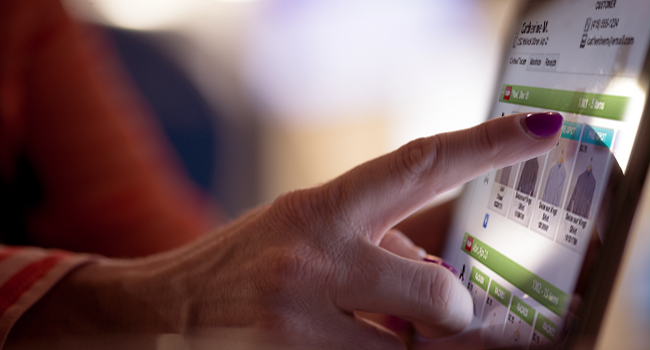
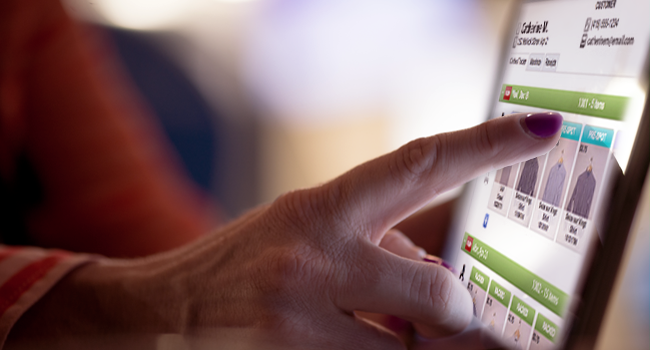
mostly cosmetic
Changed icons, and pics, added noWidow to some <p>

Changed region(s): [[0.6769, 0.0, 1.0, 1.0]]

diff --git a/index.html b/index.html
@@ -50,7 +50,7 @@
                     <span class="icon-bar"></span>
                     <span class="icon-bar"></span>
                 </button>
-                <a class="navbar-brand page-scroll" href="#page-top"><img src="" style=" display: inline; margin-right: 8px;">SMRT Systems</a>
+                <a class="navbar-brand page-scroll" href="#page-top"><img src="img/smrt_icon25.png" style=" display: inline; margin-right: 8px;">SMRT Systems</a>
             </div>
 
             <!-- Collect the nav links, forms, and other content for toggling -->
@@ -87,6 +87,7 @@
     </nav>
 
     <header>
+        <div id="fixed-header">
         <div class="header-content">
             <div class="header-content-inner">
                 <img id="header-logo"  src="img/smrt_logo_med.png" alt="smrt systems logo">
@@ -97,6 +98,7 @@
                 </p>
                 <a href="#" target="_BLANK" class="btn btn-primary btn-xl page-scroll">Get SMRT</a>
             </div>
+        </div>    
         </div>
     </header>
 
@@ -114,9 +116,37 @@
                 <div class="row">
                     <div class="col-lg-4 col-md-4 text-center">
                         <div class="service-box">
+                            <img class="features-image" src="img/ill/features_manage.png">
+                            <h3>SMRT Stations</h3>
+                            <p class="text-muted noWidows2"> Hodor hodor HODOR! Hodor hodor - hodor; hodor hodor; hodor hodor?!</p>
+                        </div>
+                    </div>
+
+                    <div class="col-lg-4 col-md-4 text-center">
+                        <div class="service-box">
+                            <img class="features-image" src="img/ill/features_pay1.png">
+                            <h3>SMRT Pay</h3>
+                            <p class="text-muted noWidows2"> Hodor hodor HODOR! Hodor hodor - hodor; hodor hodor; hodor hodor?!</p>
+                        </div>
+                    </div>
+
+                    <div class="col-lg-4 col-md-4 text-center">
+                        <div class="service-box">
+                            <img class="features-image" src="img/ill/features_delivery.png">
+                            <h3>SMRT Delivery</h3>
+                            <p class="text-muted noWidows2"> Hodor hodor HODOR! Hodor hodor - hodor; hodor hodor; hodor hodor?!</p>
+                        </div>
+                    </div>
+                </div>   
+                </div> 
+
+                <div class="container">
+                <div class="row">
+                    <div class="col-lg-4 col-md-4 text-center">
+                        <div class="service-box">
                             <i class="fa fa-4x icon-World_icons_heart wow bounceIn text-primary"></i>
                             <h3>SMRT Stations</h3>
-                            <p class="text-muted"> Hodor hodor HODOR! Hodor hodor - hodor; hodor hodor; hodor hodor?! Hodor, hodor. Hodor. Hodor, hodor - hodor hodor?! Hodor. Hodor hodor... Hodor hodor hodor hodor. </p>
+                            <p class="text-muted noWidows2"> Hodor hodor HODOR! Hodor hodor - hodor; hodor hodor; hodor hodor?!</p>
                         </div>
                     </div>
 
@@ -124,7 +154,7 @@
                         <div class="service-box">
                             <i class="fa fa-4x icon-Web_icons_van wow bounceIn text-primary" data-wow-delay=".1s"></i>
                             <h3>SMRT Pay</h3>
-                            <p class="text-muted"> Hodor hodor HODOR! Hodor hodor - hodor; hodor hodor; hodor hodor?! Hodor, hodor. Hodor. Hodor, hodor - hodor hodor?! Hodor. Hodor hodor... Hodor hodor hodor hodor. </p>
+                            <p class="text-muted noWidows2"> Hodor hodor HODOR! Hodor hodor - hodor; hodor hodor; hodor hodor?</p>
                         </div>
                     </div>
 
@@ -132,10 +162,11 @@
                         <div class="service-box">
                             <i class="fa fa-4x icon-Web_icons_barcode wow bounceIn text-primary" data-wow-delay=".2s"></i>
                             <h3>SMRT Delivery</h3>
-                            <p class="text-muted"> Hodor hodor HODOR! Hodor hodor - hodor; hodor hodor; hodor hodor?! Hodor, hodor. Hodor. Hodor, hodor - hodor hodor?! Hodor. Hodor hodor... Hodor hodor hodor hodor. </p>
+                            <p class="text-muted noWidows2"> Hodor hodor HODOR! Hodor hodor - hodor; hodor hodor; hodor hodor?!</p>
                         </div>
                     </div>
-            
+                </div>
+                </div>
             </div>
         </div>
     </section>
@@ -160,7 +191,7 @@
                 </div>
                 <div class="col-lg-4 col-sm-6">
                     <div class="portfolio-box">
-                        <img src="img/gallery_3.png" class="img-responsive" alt="">
+                        <img src="img/gallery_10.png" class="img-responsive" alt="">
                         <div class="portfolio-box-caption">
                             <div class="portfolio-box-caption-content">
                                 <div class="project-category text-faded">
@@ -173,6 +204,7 @@
                         </div>
                     </div>
                 </div>
+
                 <div class="col-lg-4 col-sm-6">
                     <div class="portfolio-box">
                         <img src="img/gallery_4.png" class="img-responsive" alt="">
@@ -183,6 +215,21 @@
                                 </div>
                                 <div class="project-name">
                                     Hodor. Hodor, hodor. Hodor. Hodor, hodor, hodor. 
+                                </div>
+                            </div>
+                        </div>
+                    </div>
+                </div>
+                <div class="col-lg-4 col-sm-6">
+                    <div class="portfolio-box">
+                        <img src="img/gallery_8.png" class="img-responsive" alt="">
+                        <div class="portfolio-box-caption">
+                            <div class="portfolio-box-caption-content">
+                                <div class="project-category text-faded">
+                                   Delivery made easy
+                                </div>
+                                <div class="project-name">
+                                   Hodor hodor hodor? Hodor hodor hodor hodor?
                                 </div>
                             </div>
                         </div>
@@ -203,24 +250,10 @@
                         </div>
                     </div>
                 </div>
+               
                 <div class="col-lg-4 col-sm-6">
                     <div class="portfolio-box">
-                        <img src="img/gallery_6.png" class="img-responsive" alt="">
-                        <div class="portfolio-box-caption">
-                            <div class="portfolio-box-caption-content">
-                                <div class="project-category text-faded">
-                                   Delivery made easy
-                                </div>
-                                <div class="project-name">
-                                   Hodor hodor hodor? Hodor hodor hodor hodor?
-                                </div>
-                            </div>
-                        </div>
-                    </div>
-                </div>
-                <div class="col-lg-4 col-sm-6">
-                    <div class="portfolio-box">
-                        <img src="img/gallery_7.png" class="img-responsive" alt="">
+                        <img src="img/gallery_9.png" class="img-responsive" alt="">
                         <div class="portfolio-box-caption">
                             <div class="portfolio-box-caption-content">
                                 <div class="project-category text-faded">
@@ -240,7 +273,7 @@
     <section id="quote">
         <div class="container">
             <div class="row">
-                <div class="col-lg-12 col-md-8 col-md-offset-2 text-center">
+                <div class="col-lg-12 col-md-8 text-center">
                         <h3 class="text-muted">“He just handed a barcode scanner and a rack of clothes. In 60 seconds I knew that I had to switch to SMRT.“ David, Sun and Brian Hong, Hacienda Cleaners San Ramon, CA3 stores, 19 employees, 2 drivers, 2600 customers, 30,000 pieces per month</h3>
                 </div>
                 </div>

diff --git a/css/creative.css b/css/creative.css
@@ -200,16 +200,16 @@ header {
     min-height: auto;
     text-align: center;
     color: #fff;
-    background-image: url(../img/computer-man1.png);
+    background-image: url(../img/computer-man2.jpg);
     background-position: 50%, 25%;
+    background-attachment: fixed;
+    z-index: 1;
     -webkit-background-size: cover;
     -moz-background-size: cover;
     background-size: cover;
     -o-background-size: cover;
-    padding-top: 10px;   
-    margin-top: 50px; 
+    padding-top: 500px;
 }
-
 
 header .header-content {
     position: relative;
@@ -250,13 +250,18 @@ header .header-content .header-content-inner p {
 @media(min-width:768px) {
     header {
         height: 90%;
-        background-image: url(../img/computer-man1.png);
+        background-image: url(../img/computer-man2.jpg);
         background-position: center-top;
+        background-attachment: fixed;
+        z-index: 1;
         -webkit-background-size: cover;
         -moz-background-size: cover;
         background-size: cover;
         -o-background-size: cover;
     }
+
+
+}
 
     header .header-content {
         position: absolute;
@@ -388,14 +393,16 @@ header .header-content .header-content-inner p {
 
 /*---Photo section-----*/
 .anywhere{
-        background-image: url(../img/startup-photos.jpg);
+        background-image: url(../img/bizman_website_phone.png);
         background-position: 5%;       
     }
 
 @media(min-width:768px){
     .anywhere {
-    background-image: url(../img/lappy2.jpg);
+    background-image: url(../img/bizman_website_phone.png);
     background-size: cover;
+    background-opacity: .25;
+    background-color: #000;
     font-size: 21px;
      background-position: 10%;
     }
@@ -581,6 +588,10 @@ body {
     padding: 7px;
     max-width: 175px;
 
+}
+
+.features-image {
+    max-width: 30%;
 }
 /*-----Price List------*/
 

diff --git a/js/creative.js b/js/creative.js
@@ -45,6 +45,11 @@
     // Initialize WOW.js Scrolling Animations
     new WOW().init();
 
+    // No widows
+$('.noWidows2').each(function(i,d){ 
+    var value="&nbsp;"
+    $(d).html($(d).text().replace(/\s(?=[^\s]*$)/g, value).replace(/\s(?=[^\s]*$)/g, value)); 
+}); 
   
 
 })(jQuery); // End of use strict
